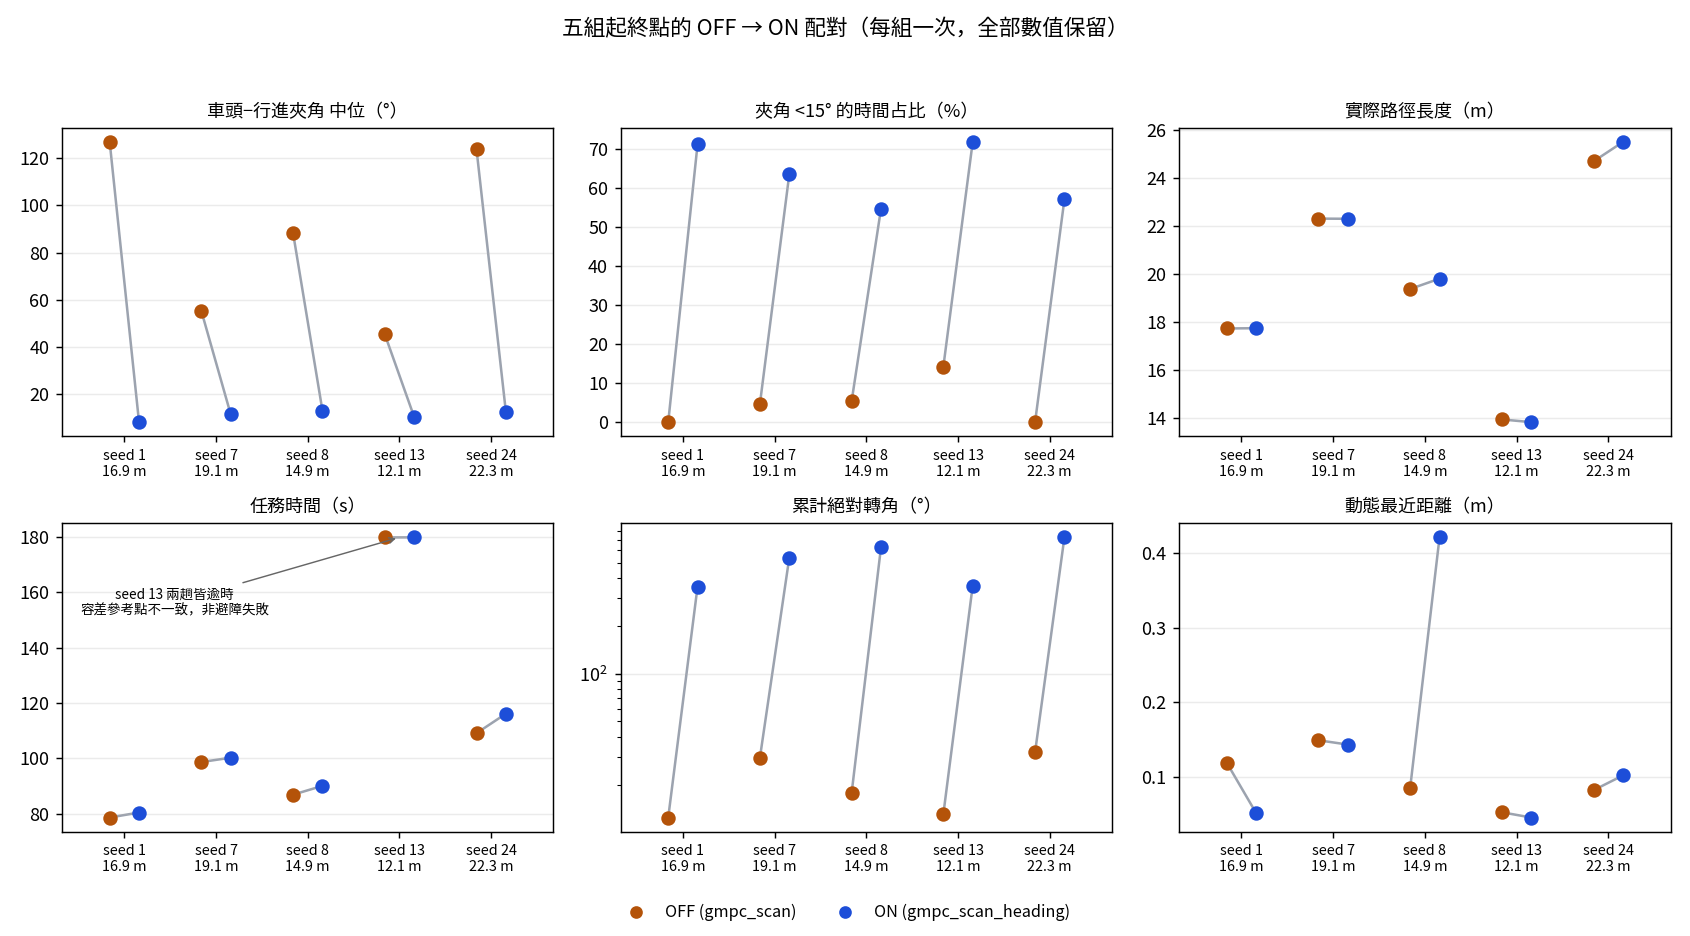
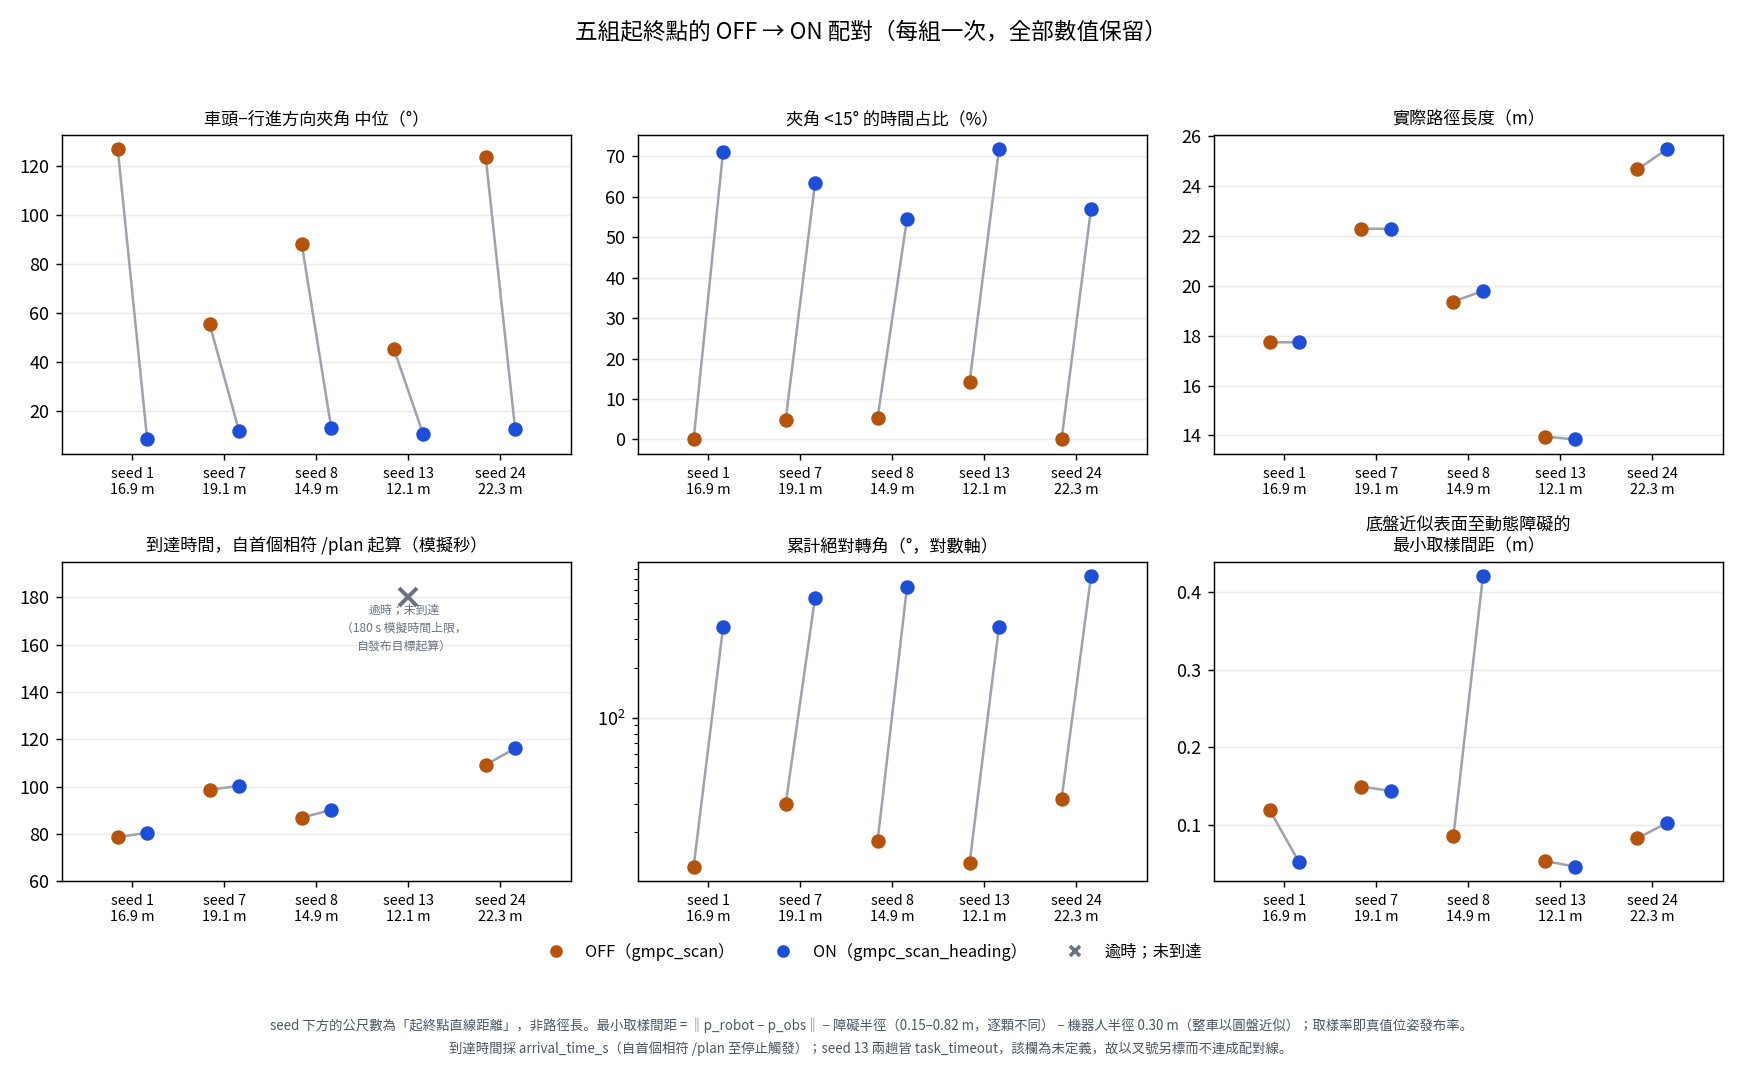
Auto-update: 2026-09-11 20:43

diff --git a/evaluation/plot_heading_results.py b/evaluation/plot_heading_results.py
@@ -1,9 +1,14 @@
 """朝向 OFF／ON 的結果圖。**保留每一次的數值，不只畫平均。**
 
+時間軸一律使用 `arrival_time_s`（`isaac_result.arrival_fields`）：
+自**首個相符 /plan** 起算到停止觸發。這與 `motion_start_sim_t`
+（首次非零 /cmd_vel）是不同的時刻，程式中明訂兩者不可互相替代，
+故未到達的趟次此欄為 None，**不畫成到達時間**。
+
 輸出：
-  fig1_5seed.png       五個 seed 的總表（每個指標一格，OFF→ON 連線）
+  fig1_5seed.png       五個 seed 的總表（OFF→ON 連線；逾時另以叉號標示）
   fig2_repeats.png     seed 1／8 每一次配對各一條線（三次全部畫出）
-  fig3_encounter.png   遭遇事件的前／中／後（每個事件一條細線 ＋ 中位數粗線）
+  fig3_encounter.png   遭遇事件的前／中／後（同欄共用縱軸）
 """
 import csv, os
 import matplotlib
@@ -18,25 +23,37 @@ for f in ('/usr/share/fonts/opentype/noto/NotoSansCJK-Medium.ttc',
         fm.fontManager.addfont(f); break
 plt.rcParams.update({'font.family': ['Noto Sans CJK JP'],
                      'axes.unicode_minus': False, 'figure.dpi': 130})
-OFFC, ONC = '#B45309', '#1D4ED8'
+OFFC, ONC, MISS = '#B45309', '#1D4ED8', '#6B7280'
+LEG = [plt.Line2D([], [], marker='o', ls='', color=OFFC, label='OFF（gmpc_scan）'),
+       plt.Line2D([], [], marker='o', ls='', color=ONC, label='ON（gmpc_scan_heading）')]
 
-# ---------------------------------------------------------------- 圖 1
-# seed: 直線m, (OFF, ON) ×（夾角中位, <15%, 路徑, 任務時間, 轉角, 淨距）
+# ══════════════════════════════════════════════════════ 圖 1
+# seed: 直線m,（OFF, ON）×（夾角中位, <15%, 路徑, 到達時間, 轉角, 最小取樣間距）
+# 到達時間 None = 未到達（task_timeout）
 S5 = {
- 1:  (16.90, (126.81, 8.25), (0.0, 71.1), (17.733, 17.744), (78.550, 80.360), (12.39, 354.95), (0.1195, 0.0524)),
- 7:  (19.09, (55.24, 11.52), (4.7, 63.4), (22.298, 22.291), (98.620, 100.210), (29.60, 539.13), (0.1495, 0.1438)),
- 8:  (14.95, (88.17, 13.12), (5.4, 54.6), (19.374, 19.802), (86.820, 90.000), (17.73, 627.33), (0.0863, 0.4204)),
- 13: (12.13, (45.40, 10.45), (14.2, 71.7), (13.953, 13.840), (179.880, 179.920), (13.02, 359.25), (0.0534, 0.0464)),
- 24: (22.34, (123.66, 12.60), (0.0, 57.0), (24.678, 25.483), (109.070, 116.110), (32.00, 725.18), (0.0829, 0.1026)),
+ 1:  (16.90, (126.81, 8.25), (0.0, 71.1), (17.733, 17.744), (78.630, 80.430), (12.39, 354.95), (0.1195, 0.0524)),
+ 7:  (19.09, (55.24, 11.52), (4.7, 63.4), (22.298, 22.291), (98.620, 100.300), (29.60, 539.13), (0.1495, 0.1438)),
+ 8:  (14.95, (88.17, 13.12), (5.4, 54.6), (19.374, 19.802), (86.820, 90.080), (17.73, 627.33), (0.0863, 0.4204)),
+ 13: (12.13, (45.40, 10.45), (14.2, 71.7), (13.953, 13.840), (None, None), (13.02, 359.25), (0.0534, 0.0464)),
+ 24: (22.34, (123.66, 12.60), (0.0, 57.0), (24.678, 25.483), (109.120, 116.190), (32.00, 725.18), (0.0829, 0.1026)),
 }
-TITLES = ['車頭−行進夾角 中位（°）', '夾角 <15° 的時間占比（%）', '實際路徑長度（m）',
-          '任務時間（s）', '累計絕對轉角（°）', '動態最近距離（m）']
+TITLES = ['車頭−行進方向夾角 中位（°）', '夾角 <15° 的時間占比（%）',
+          '實際路徑長度（m）',
+          '到達時間，自首個相符 /plan 起算（模擬秒）',
+          '累計絕對轉角（°，對數軸）',
+          '底盤近似表面至動態障礙的\n最小取樣間距（m）']
 LOG = [False, False, False, False, True, False]
 seeds = sorted(S5)
-fig, axes = plt.subplots(2, 3, figsize=(13, 7.2))
+fig, axes = plt.subplots(2, 3, figsize=(13.4, 8.2))
 for k, ax in enumerate(axes.ravel()):
     for i, sd in enumerate(seeds):
         o, n = S5[sd][k + 1]
+        if o is None or n is None:            # 逾時：不畫成到達時間，也不連線
+            ax.plot(i, 180.0, 'x', color=MISS, ms=10, mew=2.2, zorder=3)
+            ax.annotate('逾時；未到達\n（180 s 模擬時間上限，\n自發布目標起算）',
+                        xy=(i, 180.0), xytext=(i - 0.05, 158), fontsize=6.6,
+                        ha='center', color=MISS, linespacing=1.5)
+            continue
         ax.plot([i - .16, i + .16], [o, n], '-', color='#9CA3AF', lw=1.4, zorder=1)
         ax.plot(i - .16, o, 'o', color=OFFC, ms=7, zorder=2)
         ax.plot(i + .16, n, 'o', color=ONC, ms=7, zorder=2)
@@ -44,35 +61,40 @@ for k, ax in enumerate(axes.ravel()):
         ax.set_yscale('log')
     ax.set_xticks(range(len(seeds)))
     ax.set_xticklabels([f'seed {s}\n{S5[s][0]:.1f} m' for s in seeds], fontsize=8)
-    ax.set_title(TITLES[k], fontsize=10)
-    ax.grid(alpha=.25, axis='y')
-    ax.margins(x=.12)
-# 任務時間那格（axes[1,0]）才是 seed 13 需要註解的地方
-axes[1, 0].annotate('seed 13 兩趟皆逾時\n容差參考點不一致，非避障失敗',
-                    xy=(3, 179.9), xytext=(0.55, 152), fontsize=7.5,
-                    ha='center',
-                    arrowprops=dict(arrowstyle='->', lw=.8, color='#666'))
-fig.suptitle('五組起終點的 OFF → ON 配對（每組一次，全部數值保留）', fontsize=12)
-fig.legend(handles=[plt.Line2D([], [], marker='o', ls='', color=OFFC, label='OFF (gmpc_scan)'),
-                    plt.Line2D([], [], marker='o', ls='', color=ONC, label='ON (gmpc_scan_heading)')],
-           loc='lower center', ncol=2, frameon=False, fontsize=9)
-fig.tight_layout(rect=[0, .045, 1, .955])
+    ax.set_title(TITLES[k], fontsize=9.5)
+    ax.grid(alpha=.25, axis='y'); ax.margins(x=.14)
+axes[1, 0].set_ylim(60, 195)
+fig.suptitle('五組起終點的 OFF → ON 配對（每組一次，全部數值保留）', fontsize=12.5)
+fig.legend(handles=LEG + [plt.Line2D([], [], marker='x', ls='', color=MISS,
+                                     mew=2, label='逾時；未到達')],
+           loc='lower center', ncol=3, frameon=False, fontsize=9,
+           bbox_to_anchor=(.5, .085))
+fig.text(.5, .012,
+         'seed 下方的公尺數為「起終點直線距離」，非路徑長。'
+         '最小取樣間距 = ‖p_robot − p_obs‖ − 障礙半徑（0.15–0.82 m，逐顆不同）'
+         ' − 機器人半徑 0.30 m（整車以圓盤近似）；取樣率即真值位姿發布率。\n'
+         '到達時間採 arrival_time_s（自首個相符 /plan 至停止觸發）；'
+         'seed 13 兩趟皆 task_timeout，該欄為未定義，故以叉號另標而不連成配對線。',
+         ha='center', fontsize=7.4, color='#4B5563', linespacing=1.7)
+fig.tight_layout(rect=[0, .115, 1, .955])
 fig.savefig('evaluation/results/fig1_5seed.png'); plt.close(fig)
 
-# ---------------------------------------------------------------- 圖 2
+# ══════════════════════════════════════════════════════ 圖 2
 REP = {
- 1: [((126.81, 8.25), (17.733, 17.744), (78.550, 80.360), (12.39, 354.95), (0.1195, 0.0524)),
-     ((127.94, 8.25), (17.700, 17.763), (78.760, 80.160), (10.04, 351.75), (0.1121, 0.0536)),
-     ((126.29, 8.19), (17.751, 17.753), (78.820, 80.290), (10.84, 354.76), (0.0978, 0.0496))],
- 8: [((88.17, 13.12), (19.374, 19.802), (86.820, 90.000), (17.73, 627.33), (0.0863, 0.4204)),
-     ((88.14, 11.71), (19.402, 19.513), (87.100, 89.170), (16.53, 613.58), (0.0895, 0.3759)),
-     ((87.41, 12.35), (19.293, 19.554), (87.060, 89.200), (16.66, 593.94), (0.0680, 0.3569))],
+ 1: [((126.81, 8.25), (17.733, 17.744), (78.630, 80.430), (12.39, 354.95), (0.1195, 0.0524)),
+     ((127.94, 8.25), (17.700, 17.763), (78.790, 80.260), (10.04, 351.75), (0.1121, 0.0536)),
+     ((126.29, 8.19), (17.751, 17.753), (78.870, 80.340), (10.84, 354.76), (0.0978, 0.0496))],
+ 8: [((88.17, 13.12), (19.374, 19.802), (86.820, 90.080), (17.73, 627.33), (0.0863, 0.4204)),
+     ((88.14, 11.71), (19.402, 19.513), (87.170, 89.220), (16.53, 613.58), (0.0895, 0.3759)),
+     ((87.41, 12.35), (19.293, 19.554), (87.130, 89.290), (16.66, 593.94), (0.0680, 0.3569))],
 }
-T2 = ['車頭−行進夾角 中位（°）', '實際路徑長度（m）', '任務時間（s）',
-      '累計絕對轉角（°）', '動態最近距離（m）']
+T2 = ['車頭−行進方向夾角 中位（°）', '實際路徑長度（m）',
+      '到達時間，自首個相符 /plan\n起算（模擬秒）',
+      '累計絕對轉角（°，對數軸）',
+      '底盤近似表面至動態障礙的\n最小取樣間距（m）']
 LOG2 = [False, False, False, True, False]
 MK = ['o', 's', '^']
-fig, axes = plt.subplots(2, 5, figsize=(15, 6.4))
+fig, axes = plt.subplots(2, 5, figsize=(15, 7.4))
 for row, sd in enumerate((1, 8)):
     for k in range(5):
         ax = axes[row, k]
@@ -86,45 +108,60 @@ for row, sd in enumerate((1, 8)):
         ax.set_xticks([0, 1]); ax.set_xticklabels(['OFF', 'ON'], fontsize=9)
         ax.set_xlim(-.35, 1.35); ax.grid(alpha=.25, axis='y')
         if row == 0:
-            ax.set_title(T2[k], fontsize=9.5)
+            ax.set_title(T2[k], fontsize=9)
         if k == 0:
-            ax.set_ylabel(f'seed {sd}', fontsize=11)
-fig.suptitle('seed 1 與 seed 8：各三次配對，每一次單獨畫出（○ 第1次  □ 第2次  △ 第3次）',
-             fontsize=12)
-fig.tight_layout(rect=[0, 0, 1, .945])
+            ax.set_ylabel(f'seed {sd}', fontsize=11.5)
+fig.suptitle('seed 1 與 seed 8：各三次配對，每一次單獨畫出', fontsize=12.5)
+fig.legend(handles=LEG + [plt.Line2D([], [], marker=m, ls='', color='#4B5563',
+                                     label=f'第 {i+1} 次')
+                          for i, m in enumerate(MK)],
+           loc='lower center', ncol=5, frameon=False, fontsize=9,
+           bbox_to_anchor=(.5, .075))
+fig.text(.5, .016,
+         '各面板縱軸範圍不同；路徑與時間採局部放大，請依刻度解讀。'
+         '累計轉角為對數軸。連線僅配對同一次試驗的 OFF 與 ON，不表示中間過程。\n'
+         'seed 1、8 為「五 seed 批次中最小間距變化方向相反」而刻意挑選的診斷案例，'
+         '不是隨機抽樣。',
+         ha='center', fontsize=7.4, color='#4B5563', linespacing=1.7)
+fig.tight_layout(rect=[0, .105, 1, .95])
 fig.savefig('evaluation/results/fig2_repeats.png'); plt.close(fig)
 
-# ---------------------------------------------------------------- 圖 3
-rows = list(csv.DictReader(open(
-    '/tmp/claude-1000/-home-howardchen-masterthesis/'
-    '757c950c-2cbf-43e3-a66b-44e0527a4873/scratchpad/encounters.csv')))
+# ══════════════════════════════════════════════════════ 圖 3
+rows = list(csv.DictReader(open('evaluation/results/encounters_20260911.csv')))
 PH = ['前', '中', '後']
-fig, axes = plt.subplots(2, 3, figsize=(12, 6.6))
+COLS = [('vyb', '|v_y,body|（m/s）'), ('ang', '車頭−行進方向夾角（°）'),
+        ('wz', '|ω_z|（rad/s）')]
+fig, axes = plt.subplots(2, 3, figsize=(12.4, 7.6), sharey='col')
 for row, side in enumerate(['OFF', 'ON']):
     R = [r for r in rows if r['side'] == side]
     col = OFFC if side == 'OFF' else ONC
-    for k, (key, lab) in enumerate([('vyb', '|v_y,body|（m/s）'),
-                                    ('ang', '車頭−行進夾角（°）'),
-                                    ('wz', '|ω_z|（rad/s）')]):
+    for k, (key, lab) in enumerate(COLS):
         ax = axes[row, k]
         M = []
         for r in R:
             y = [float(r[f'{p}_{key}']) for p in PH]
             if any(np.isnan(y)):
                 continue
-            ax.plot(range(3), y, '-', color=col, alpha=.28, lw=1)
+            ax.plot(range(3), y, '-', color=col, alpha=.30, lw=1)
             M.append(y)
         M = np.array(M)
         ax.plot(range(3), np.median(M, axis=0), '-o', color=col, lw=2.6, ms=7,
-                zorder=3, label=f'中位（n={len(M)}）')
+                zorder=3, label=f'事件間中位（n={len(M)}）')
         ax.set_xticks(range(3)); ax.set_xticklabels(PH, fontsize=11)
         ax.grid(alpha=.25, axis='y'); ax.legend(fontsize=8, frameon=False)
         if row == 0:
             ax.set_title(lab, fontsize=10)
         if k == 0:
-            ax.set_ylabel(side, fontsize=12)
-fig.suptitle('遭遇事件的前／中／後（判準事前固定：進入 1.00 m 為事件、'
-             '最近需 ≤ 0.50 m；每條細線 = 一個事件）', fontsize=11)
-fig.tight_layout(rect=[0, 0, 1, .94])
+            ax.set_ylabel(side, fontsize=12.5)
+fig.suptitle('遭遇事件摘要（探索性）：同一欄的 OFF／ON 共用縱軸', fontsize=12.5)
+fig.text(.5, .018,
+         '每模式 17 個事件、來自 9 趟；事件非獨立樣本（seed 1 每趟 3 個 × 3 趟、'
+         'seed 8 每趟 1 個 × 3 趟，共 9 類 seed／障礙物組合）。\n'
+         '階段切分（分析前固定，只依距離）：淨距 ≤ 1.00 m 為一事件、其內最近需 ≤ 0.50 m；'
+         '前 = 進入 1.00 m 至首次跌破 0.50 m，中 = ≤ 0.50 m，後 = 末次升回 0.50 m 至離開 1.00 m。\n'
+         '細線 = 一個事件；粗線 = 先取每事件各階段的中位，再取事件間的中位。'
+         '折線只連接三個階段摘要，不是連續時間軌跡。',
+         ha='center', fontsize=7.4, color='#4B5563', linespacing=1.75)
+fig.tight_layout(rect=[0, .105, 1, .95])
 fig.savefig('evaluation/results/fig3_encounter.png'); plt.close(fig)
-print('fig1_5seed.png / fig2_repeats.png / fig3_encounter.png 已輸出')
+print('三張圖已更新')

diff --git a/第二階段進度紀錄.md b/第二階段進度紀錄.md
@@ -2794,7 +2794,7 @@ p95 ≤ 1.1 mm、最大 19.0 mm（區間 109 s）；legacy 模式同一比較為
 兩趟的驅動目標對「由 YAML 獨立重算的排程」皆逐點 0.0000 mm，
 發目標前已流逝相位皆 +30.010 s。
 
-**兩趟都到達**（`goal_reached_truth`）。OFF 78.630 s、ON 80.430 s。
+**兩趟都到達**（`goal_reached_truth`）。`arrival_time_s` OFF 78.630 s、ON 80.430 s。
 
 **對齊改善**：車頭與行進方向夾角中位 **126.68° → 8.24°**；<15° 時間占比
 **0.0 % → 70.9 %**；持續對齊區間 0 段 → 11 段（49.50 s，62.3 %）。
@@ -2970,8 +2970,9 @@ seed 8 三次皆正（+0.3341, +0.2864, +0.2889），各 seed 內 OFF 與 ON 的
 （幾何、路徑選擇與定位等因素本輪都沒有分開量測）。
 差值全距 0.0189 m（seed 1）與 0.0477 m（seed 8）。
 
-**耗時與轉動**：任務時間 ON−OFF **6/6 為正**（seed 1 +1.40~+1.81 s、
-seed 8 +2.07~+3.18 s），各 seed 內範圍不重疊。絕對轉角 ON 的重複全距
+**耗時與轉動**：到達時間（`arrival_time_s`，自首個相符 `/plan` 至停止觸發）
+ON−OFF **6/6 為正**（seed 1 +1.47~+1.80 s、seed 8 +2.05~+3.26 s），
+各 seed 內範圍不重疊。絕對轉角 ON 的重複全距
 （3.20° / 33.39°）遠小於 OFF→ON 的差（約 342° / 593°）。
 實際路徑：seed 1 的差幾乎在重複波動之內（+0.002~+0.063 m），
 seed 8 則一致為正（+0.111~+0.428 m）。
